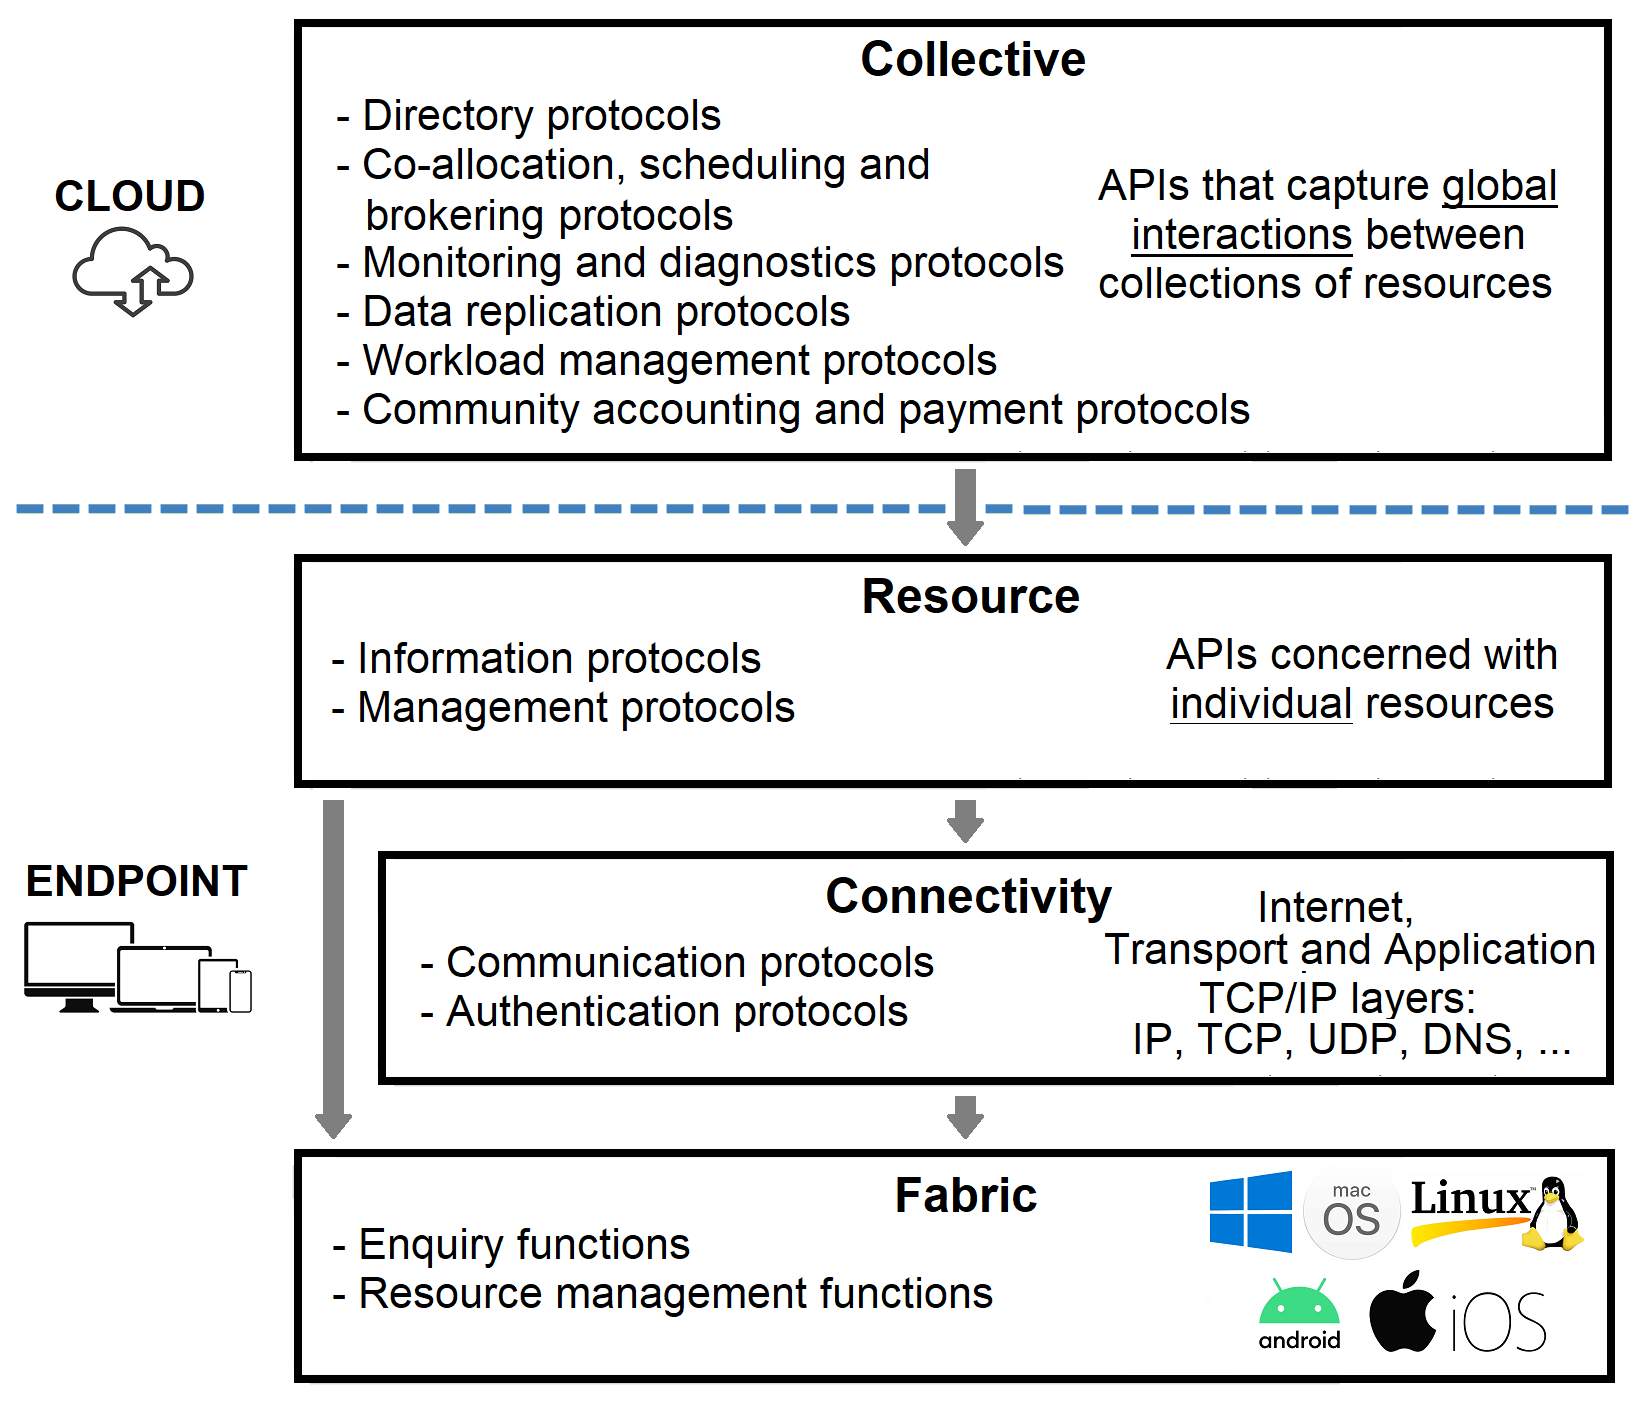
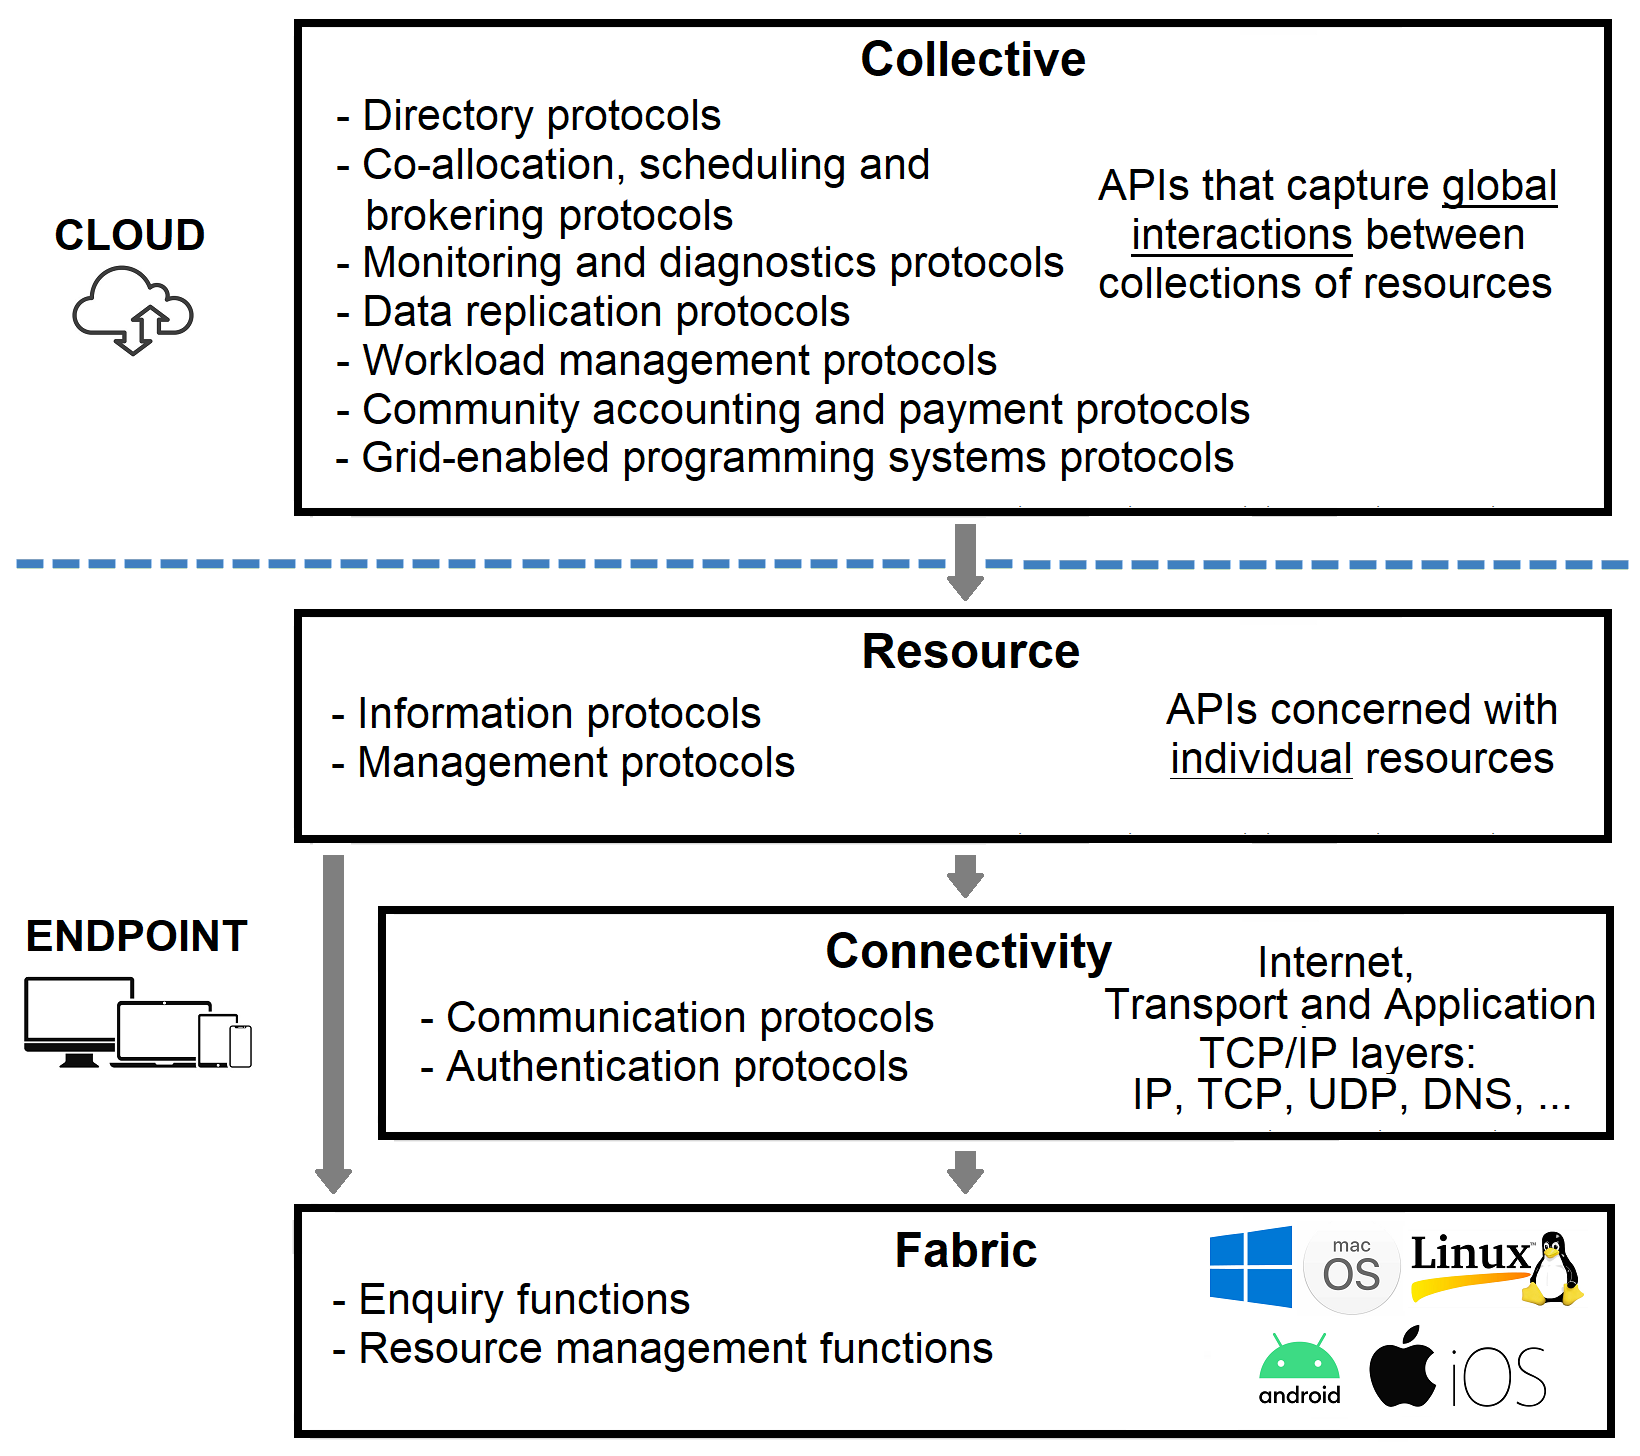
written 2.1.4 - Collective layer

diff --git a/document/chapters/chapter_2/sections/1_layered_grid_architecture.tex b/document/chapters/chapter_2/sections/1_layered_grid_architecture.tex
@@ -82,12 +82,30 @@ Two protocol classes are defined at this level:
 \subsection{Collective layer}
 \begin{figure}[!ht]
     \centering
-    \includegraphics[scale=0.35]{document/chapters/chapter_2/images/collective_layer.png}
+    \includegraphics[scale=0.34]{document/chapters/chapter_2/images/collective_layer.png}
     \caption{Layered Grid Architecture - Collective layer}
     \label{fig:collective_layer}
 \end{figure}
 
-\noindent TODO
+\noindent Here the main focus shifts from the management of a single specific resource to dealing with questions that are global in nature, capturing interactions across collections of resources. Previous layers dominated the realm of a single machine (with its resources) acting as an endpoint, but this layer changes context becoming a cloud-based domain.
+
+If the limited number of protocols at the Resource layer are well-designed, this layer can offer a wide variety of sharing behaviors that build upon those protocols. Such sharing behaviors depend on what capabilities the Grid wants to offer. Those behaviors, that are then accessed by using APIs, \textit{can} include:
+\begin{itemize}
+    \item \textit{Directory protocols}\\
+    Used to discover and query resources by name and/or attributes like availability, type and workload.
+    \item \textit{Co-allocation, scheduling and brokering protocols}\\
+    With such protocols, resources are assigned and allocated for a specific purpose in order to execute a scheduled task.
+    \item \textit{Monitoring and diagnostics protocols}\\
+    Through these protocols resources are monitored for failure, overload, external attacks, etc...
+    \item \textit{Data replication protocols}\\
+    In order to maximize performances, these protocols manage data replication to increase reliability while reducing response time.
+    \item \textit{Workload management protocols}\\
+    Used to solve situations where, through information obtained using discovery protocols, an excessive workload is detected.
+    \item \textit{Community accounting and payment protocols}\\
+    Such protocols collect information about Grid usage; with such information payments involving resources usage can occur.
+    \item \textit{Grid-enabled programming systems protocols}\\
+    Lastly, these protocols offers familiar grid-enabled programming models and paradigms to be used to perform computations inside the Grid. 
+\end{itemize}
 
 \subsection{Application layer}
 TODO
